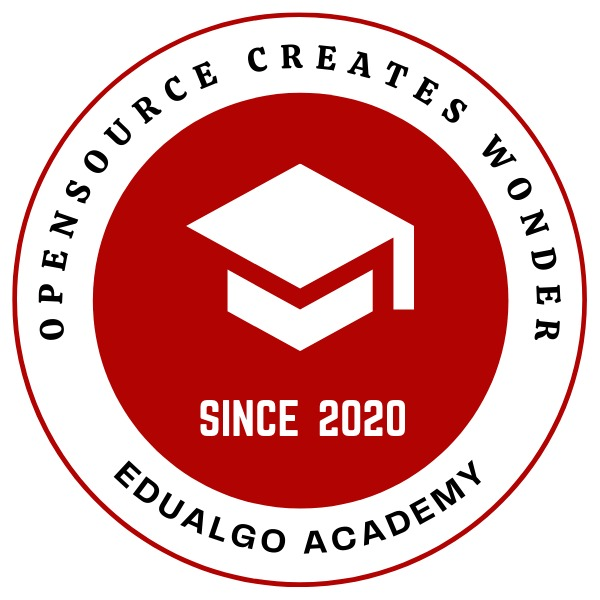
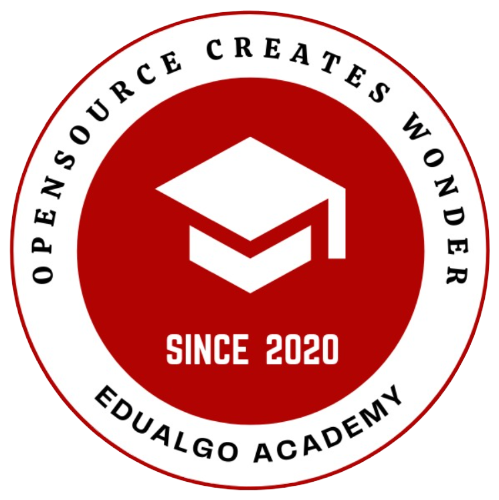
file name

diff --git a/src/components/projects/allProjects/SlideData.js b/src/components/projects/allProjects/SlideData.js
@@ -4,7 +4,7 @@ import geeta from '../../../assets/organizations/gitaInit.png';
 import hoppscotch from '../../../assets/organizations/Hoppscotch.png';
 import autoDL from '../../../assets/organizations/auto-dl.png';
 import jina from '../../../assets/organizations/jinaAi.png';
-import edualgo from '../../../assets/organizations/edualgoalt.png';
+import edualgo from '../../../assets/organizations/abc.jpg';
 
 const SliderData = [
   {

diff --git a/src/components/projects/organizations.js b/src/components/projects/organizations.js
@@ -7,7 +7,7 @@ import gitaInitiative from "../../assets/organizations/gitaInit.png";
 import jinaAi from "../../assets/organizations/jinaAi.png";
 import autodl from "../../assets/organizations/auto-dl.png";
 import mojo from "../../assets/organizations/moja-global.png";
-import edualgo from '../../assets/organizations/edualgoalt.png';
+import edualgo from '../../assets/organizations/abc.jpg';
 
 import "./Project.css";
 
